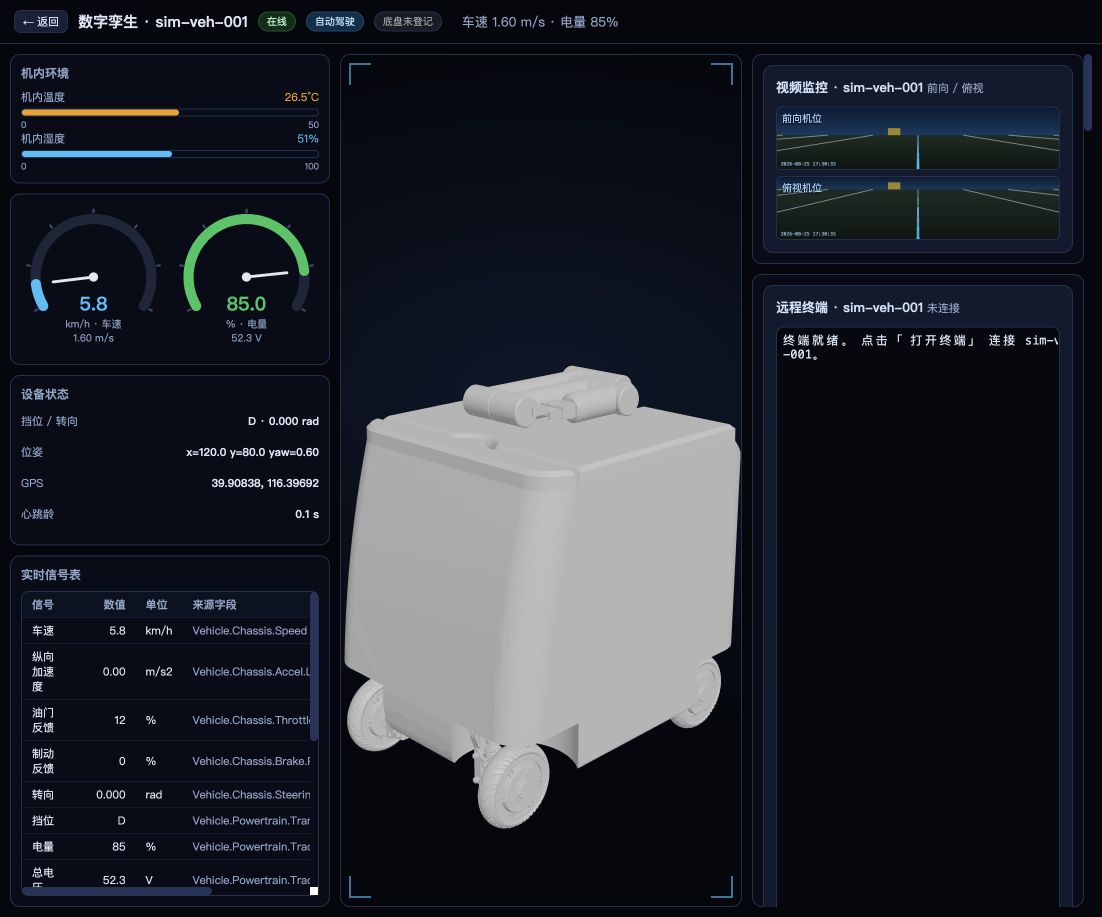
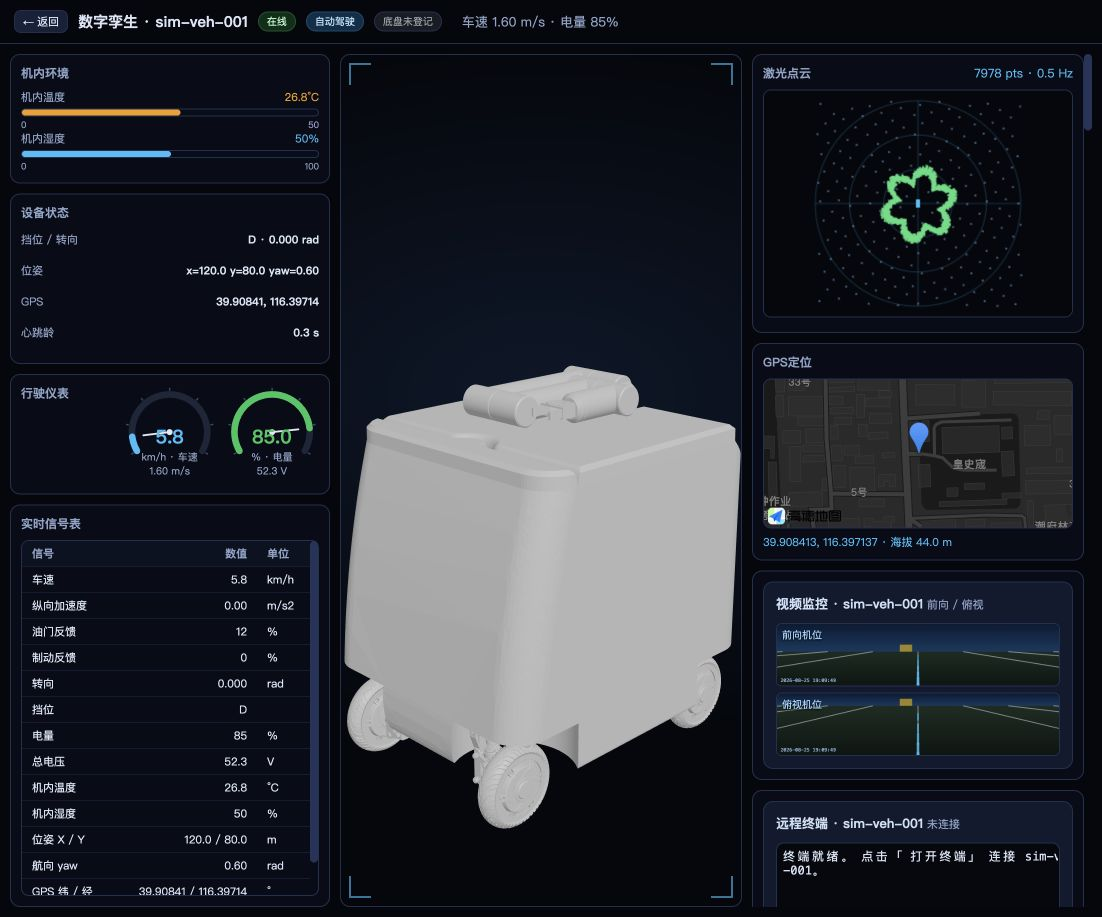
feat(32): 孪生页对齐参考图+信号表来源字段按需显示
- 实时信号表默认隐藏来源字段，仅弹窗详情页(showSource)展示
- 孪生页右列补齐激光点云(雷达式俯视,自车坐标系,2s轮询真实点云接口)与GPS定位(高德暗色+GCJ-02纠偏)
- 左列顺序对齐参考图：机内环境/设备状态/行驶仪表/实时信号表

Changed region(s): [[0.6788, 0.0611, 0.9873, 0.9771], [0.0, 0.5496, 0.3085, 0.9771], [0.0, 0.2137, 0.3085, 0.5496]]

diff --git a/web/ops-dashboard/src/components/TwinRadar.tsx b/web/ops-dashboard/src/components/TwinRadar.tsx
@@ -1,0 +1,100 @@
+// 激光点云（雷达式俯视图）：借鉴桌面数字孪生项目的 RadarDetection。
+// 数据走真实接口 /api/pointcloud；世界坐标 → 自车坐标系（车头朝上），2s 轮询。
+import { useEffect, useRef, useState } from "react";
+import { fetchPointCloud } from "../api";
+import type { VehicleSnap } from "../types";
+
+const RANGE = 30; // 视野半径（米）
+
+export default function TwinRadar({ vehicle }: { vehicle: VehicleSnap }) {
+  const canvasRef = useRef<HTMLCanvasElement | null>(null);
+  const [count, setCount] = useState(0);
+
+  useEffect(() => {
+    let alive = true;
+    const draw = async () => {
+      try {
+        const pc = await fetchPointCloud(vehicle.vehicle_id);
+        if (!alive) return;
+        const canvas = canvasRef.current;
+        if (!canvas) return;
+        const ctx = canvas.getContext("2d");
+        if (!ctx) return;
+        const W = canvas.width;
+        const H = canvas.height;
+        ctx.fillStyle = "#04070d";
+        ctx.fillRect(0, 0, W, H);
+        const cx = W / 2;
+        const cy = H / 2;
+        const scale = (Math.min(W, H) / 2 - 10) / RANGE;
+
+        // 距离环 + 十字线
+        ctx.strokeStyle = "rgba(56,189,248,.22)";
+        ctx.lineWidth = 1;
+        for (let r = 10; r <= RANGE; r += 10) {
+          ctx.beginPath();
+          ctx.arc(cx, cy, r * scale, 0, Math.PI * 2);
+          ctx.stroke();
+        }
+        ctx.beginPath();
+        ctx.moveTo(cx - RANGE * scale, cy);
+        ctx.lineTo(cx + RANGE * scale, cy);
+        ctx.moveTo(cx, cy - RANGE * scale);
+        ctx.lineTo(cx, cy + RANGE * scale);
+        ctx.stroke();
+
+        // 世界坐标 → 自车坐标（车头朝上）
+        const yaw = vehicle.pose.yaw;
+        const cos = Math.cos(-yaw);
+        const sin = Math.sin(-yaw);
+        const px = vehicle.pose.x;
+        const py = vehicle.pose.y;
+        const plot = (x: number, y: number, color: string, size: number) => {
+          const dx = x - px;
+          const dy = y - py;
+          const ex = dx * cos - dy * sin;
+          const ey = dx * sin + dy * cos;
+          if (Math.abs(ex) > RANGE || Math.abs(ey) > RANGE) return;
+          ctx.fillStyle = color;
+          ctx.fillRect(cx + ex * scale, cy - ey * scale, size, size);
+        };
+
+        let n = 0;
+        const st = pc.static;
+        for (let i = 0; i < st.count; i++) {
+          plot(st.positions[i * 3], st.positions[i * 3 + 1], "rgba(148,197,255,.55)", 1.6);
+          n++;
+        }
+        for (const vc of pc.vehicles) {
+          const col = vc.vehicle_id === vehicle.vehicle_id ? "#4ade80" : "#f87171";
+          for (let i = 0; i < vc.count; i++) {
+            plot(vc.positions[i * 3], vc.positions[i * 3 + 1], col, 2);
+            n++;
+          }
+        }
+        // 自车标记
+        ctx.fillStyle = "#38bdf8";
+        ctx.fillRect(cx - 2, cy - 4, 4, 8);
+        setCount(n);
+      } catch {
+        /* 后端未就绪保留旧帧 */
+      }
+    };
+    void draw();
+    const t = window.setInterval(() => void draw(), 2000);
+    return () => {
+      alive = false;
+      window.clearInterval(t);
+    };
+  }, [vehicle.vehicle_id, vehicle.pose.x, vehicle.pose.y, vehicle.pose.yaw]);
+
+  return (
+    <div>
+      <div className="twin-card-t" style={{ display: "flex", justifyContent: "space-between" }}>
+        <span>激光点云</span>
+        <span className="mono" style={{ color: "#38bdf8", fontWeight: 400 }}>{count} pts · 0.5 Hz</span>
+      </div>
+      <canvas ref={canvasRef} width={300} height={220} style={{ width: "100%", borderRadius: 8, background: "#04070d", border: "1px solid var(--border)" }} />
+    </div>
+  );
+}

diff --git a/web/ops-dashboard/src/pages/Twin.tsx b/web/ops-dashboard/src/pages/Twin.tsx
@@ -1,11 +1,13 @@
 // 数字孪生车辆详情页：独立页面（无侧栏/顶栏），新标签页打开，等保三级会话鉴权。
-// 布局借鉴桌面「数字孪生」项目：左数据面板 / 中 GLB 模型 / 右视频+终端，全部接真实接口。
+// 布局对齐桌面「数字孪生」参考图：左 数据面板 / 中 GLB 模型 / 右 点云+GPS+视频+终端，全部接真实接口。
 import { useEffect, useState } from "react";
 import { fetchMe, useFleet } from "../api";
 import { BarGauge, DialGauge, SignalTable } from "../components/DashGauges";
 import MiniVideos from "../components/MiniVideos";
 import TerminalPanel from "../components/TerminalPanel";
+import TwinGps from "../components/TwinGps";
 import TwinModel from "../components/TwinModel";
+import TwinRadar from "../components/TwinRadar";
 import type { Me } from "../types";
 
 export default function Twin({ vehicleId }: { vehicleId: string }) {
@@ -82,10 +84,6 @@ export default function Twin({ vehicleId }: { vehicleId: string }) {
             <BarGauge label="机内温度" value={v.cabin_temp_c ?? 26} min={0} max={50} unit="°C" color="#f59e0b" />
             <BarGauge label="机内湿度" value={v.cabin_humidity_pct ?? 45} min={0} max={100} unit="%" color="#38bdf8" digits={0} />
           </div>
-          <div className="twin-card twin-dials">
-            <DialGauge value={v.speed_mps * 3.6} max={60} unit="km/h" label="车速" color="#38bdf8" sub={v.speed_mps.toFixed(2) + " m/s"} />
-            <DialGauge value={v.soc * 100} max={100} unit="%" label="电量" color="#22c55e" sub={v.voltage.toFixed(1) + " V"} />
-          </div>
           <div className="twin-card">
             <div className="twin-card-t">设备状态</div>
             <div className="kv">
@@ -105,6 +103,11 @@ export default function Twin({ vehicleId }: { vehicleId: string }) {
               <b className="mono">{v.last_heartbeat_age_s.toFixed(1)} s</b>
             </div>
           </div>
+          <div className="twin-card twin-dials">
+            <div className="twin-card-t" style={{ width: "100%" }}>行驶仪表</div>
+            <DialGauge value={v.speed_mps * 3.6} max={60} unit="km/h" label="车速" color="#38bdf8" sub={v.speed_mps.toFixed(2) + " m/s"} />
+            <DialGauge value={v.soc * 100} max={100} unit="%" label="电量" color="#22c55e" sub={v.voltage.toFixed(1) + " V"} />
+          </div>
           <div className="twin-card twin-sig">
             <div className="twin-card-t">实时信号表</div>
             <SignalTable v={v} />
@@ -114,6 +117,12 @@ export default function Twin({ vehicleId }: { vehicleId: string }) {
           <TwinModel vehicleId={v.vehicle_id} powered={v.online} />
         </main>
         <aside className="twin-col twin-right">
+          <div className="twin-card">
+            <TwinRadar vehicle={v} />
+          </div>
+          <div className="twin-card">
+            <TwinGps vehicle={v} />
+          </div>
           <div className="twin-card">
             <MiniVideos vehicle={v} />
           </div>

diff --git a/web/ops-dashboard/src/components/TwinGps.tsx b/web/ops-dashboard/src/components/TwinGps.tsx
@@ -1,0 +1,81 @@
+// GPS 定位（孪生页小地图）：高德暗色底图 + WGS84→GCJ-02 纠偏，复用总览 GpsMap 的配置与算法。
+// 未配置 key 或无定位时显示坐标占位，不影响页面。
+import { useEffect, useRef } from "react";
+import { amapCfg, wgs84ToGcj02 } from "./GpsMap";
+import type { VehicleSnap } from "../types";
+
+type AMapNS = any;
+let amapPromise: Promise<AMapNS> | null = null;
+function loadAMap(key: string): Promise<AMapNS> {
+  const w = window as any;
+  if (w.AMap) return Promise.resolve(w.AMap);
+  if (amapPromise) return amapPromise;
+  amapPromise = new Promise((resolve, reject) => {
+    const s = document.createElement("script");
+    s.src = "https://webapi.amap.com/maps?v=2.0&key=" + key;
+    s.onload = () => resolve(w.AMap);
+    s.onerror = () => reject(new Error("amap load failed"));
+    document.head.appendChild(s);
+  });
+  return amapPromise;
+}
+
+export default function TwinGps({ vehicle }: { vehicle: VehicleSnap }) {
+  const boxRef = useRef<HTMLDivElement | null>(null);
+  const mapRef = useRef<AMapNS>(null);
+  const markerRef = useRef<AMapNS>(null);
+  const g = vehicle.gps;
+
+  useEffect(() => {
+    let alive = true;
+    const cfg = amapCfg();
+    if (!cfg.key || !g.fix || !boxRef.current) return;
+    const [lng, lat] = wgs84ToGcj02(g.lon, g.lat);
+    loadAMap(cfg.key)
+      .then((AMap) => {
+        if (!alive || !boxRef.current || mapRef.current) return;
+        const map = new AMap.Map(boxRef.current, {
+          mapStyle: "amap://styles/dark",
+          zoom: 17,
+          center: [lng, lat],
+        });
+        const mk = new AMap.Marker({ position: [lng, lat] });
+        map.add(mk);
+        mapRef.current = map;
+        markerRef.current = mk;
+      })
+      .catch(() => undefined);
+    return () => {
+      alive = false;
+    };
+    // 仅初始化一次（换车时重建）
+    // eslint-disable-next-line react-hooks/exhaustive-deps
+  }, [vehicle.vehicle_id]);
+
+  useEffect(() => {
+    if (mapRef.current && markerRef.current && g.fix) {
+      const [lng, lat] = wgs84ToGcj02(g.lon, g.lat);
+      markerRef.current.setPosition([lng, lat]);
+      mapRef.current.setCenter([lng, lat]);
+    }
+  }, [g.lon, g.lat, g.fix]);
+
+  return (
+    <div>
+      <div className="twin-card-t">GPS定位</div>
+      <div
+        ref={boxRef}
+        style={{ height: 150, borderRadius: 8, overflow: "hidden", border: "1px solid var(--border)", background: "#0a1020", position: "relative" }}
+      >
+        {!g.fix && (
+          <div className="muted" style={{ position: "absolute", inset: 0, display: "grid", placeItems: "center" }}>
+            无 GPS 定位
+          </div>
+        )}
+      </div>
+      <div className="mono" style={{ fontSize: 11, color: "#38bdf8", marginTop: 6 }}>
+        {g.fix ? g.lat.toFixed(6) + ", " + g.lon.toFixed(6) + " · 海拔 " + g.alt.toFixed(1) + " m" : "—"}
+      </div>
+    </div>
+  );
+}

diff --git a/web/ops-dashboard/src/components/DashGauges.tsx b/web/ops-dashboard/src/components/DashGauges.tsx
@@ -148,8 +148,9 @@ export function AccelChart({ hist, height = 96 }: { hist: number[]; height?: num
   );
 }
 
-// 实时信号表（对齐 1.html 的信号表：信号/数值/单位/来源字段）
-export function SignalTable({ v }: { v: VehicleSnap }) {
+// 实时信号表（对齐 1.html 的信号表：信号/数值/单位[/来源字段]）。
+// 来源字段默认隐藏，仅弹窗详情页（showSource）展示。
+export function SignalTable({ v, showSource }: { v: VehicleSnap; showSource?: boolean }) {
   const rows: [string, string, string, string][] = [
     ["车速", (v.speed_mps * 3.6).toFixed(1), "km/h", "Vehicle.Chassis.Speed"],
     ["纵向加速度", (v.accel_mps2 ?? 0).toFixed(2), "m/s2", "Vehicle.Chassis.Accel.Longitudinal"],
@@ -170,15 +171,20 @@ export function SignalTable({ v }: { v: VehicleSnap }) {
     <div className="sig-table-wrap">
       <table className="sig-table">
         <thead>
-          <tr><th>信号</th><th style={{ textAlign: "right" }}>数值</th><th>单位</th><th>来源字段</th></tr>
+          <tr>
+            <th>信号</th>
+            <th style={{ textAlign: "right" }}>数值</th>
+            <th>单位</th>
+            {showSource && <th>来源字段</th>}
+          </tr>
         </thead>
         <tbody>
           {rows.map((r) => (
-            <tr key={r[3]}>
+            <tr key={r[3] + r[0]}>
               <td>{r[0]}</td>
               <td className="mono" style={{ textAlign: "right" }}>{r[1]}</td>
               <td>{r[2]}</td>
-              <td className="dim">{r[3]}</td>
+              {showSource && <td className="dim">{r[3]}</td>}
             </tr>
           ))}
         </tbody>

diff --git a/web/ops-dashboard/src/pages/VehicleDetail.tsx b/web/ops-dashboard/src/pages/VehicleDetail.tsx
@@ -93,7 +93,7 @@ export function VehicleDashboard({ v }: { v: VehicleSnap }) {
         </div>
       </div>
       <AccelChart hist={v.accel_history || []} />
-      <SignalTable v={v} />
+      <SignalTable v={v} showSource />
     </div>
   );
 }
